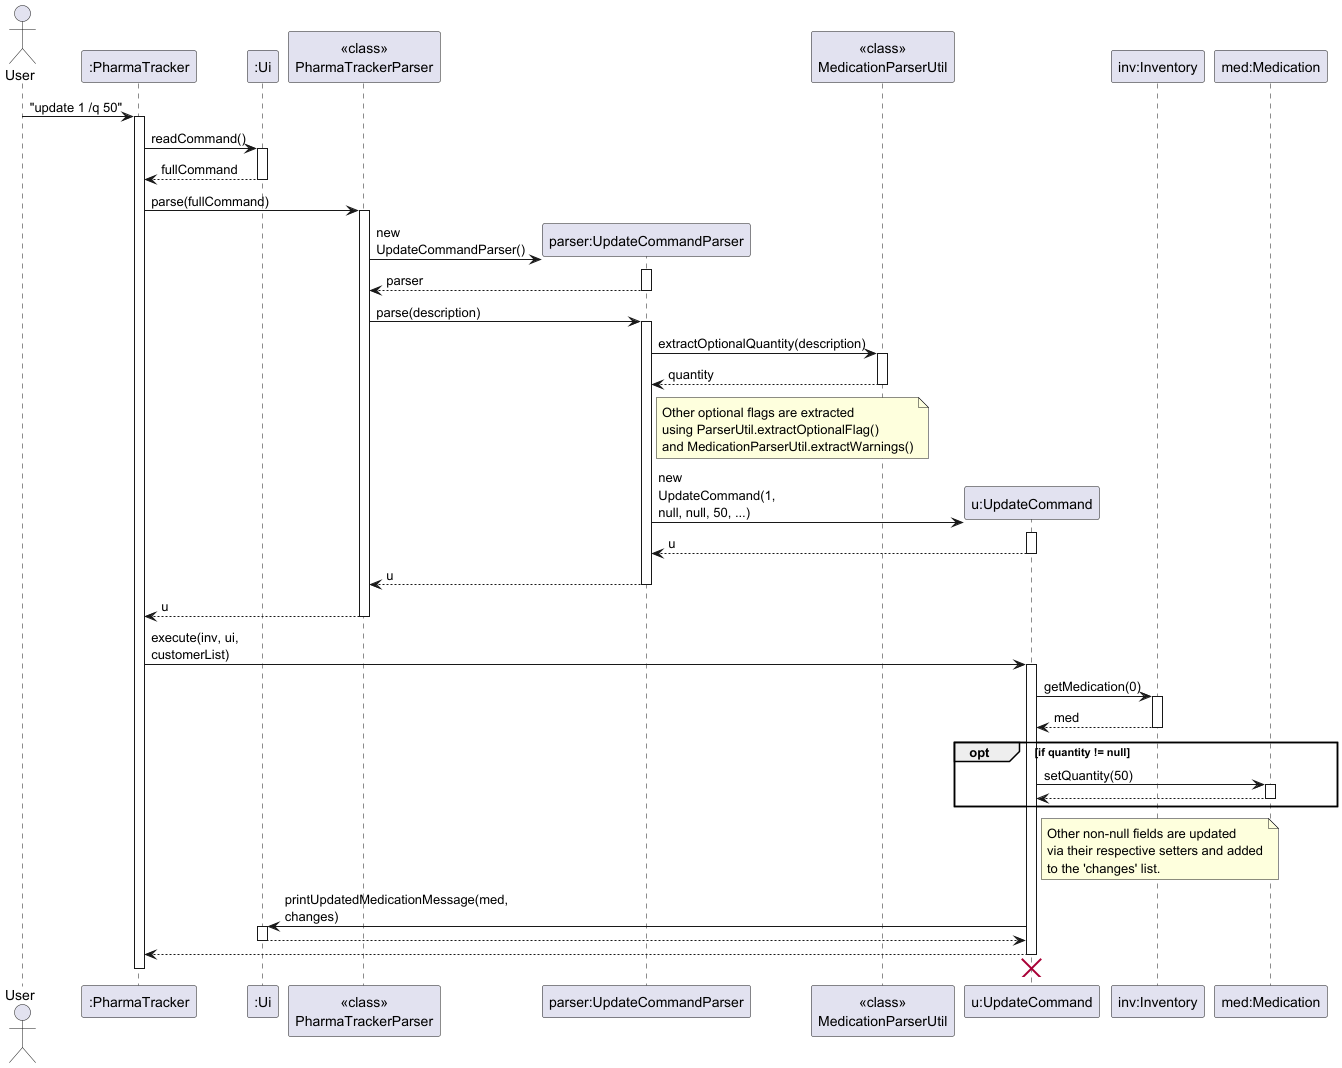
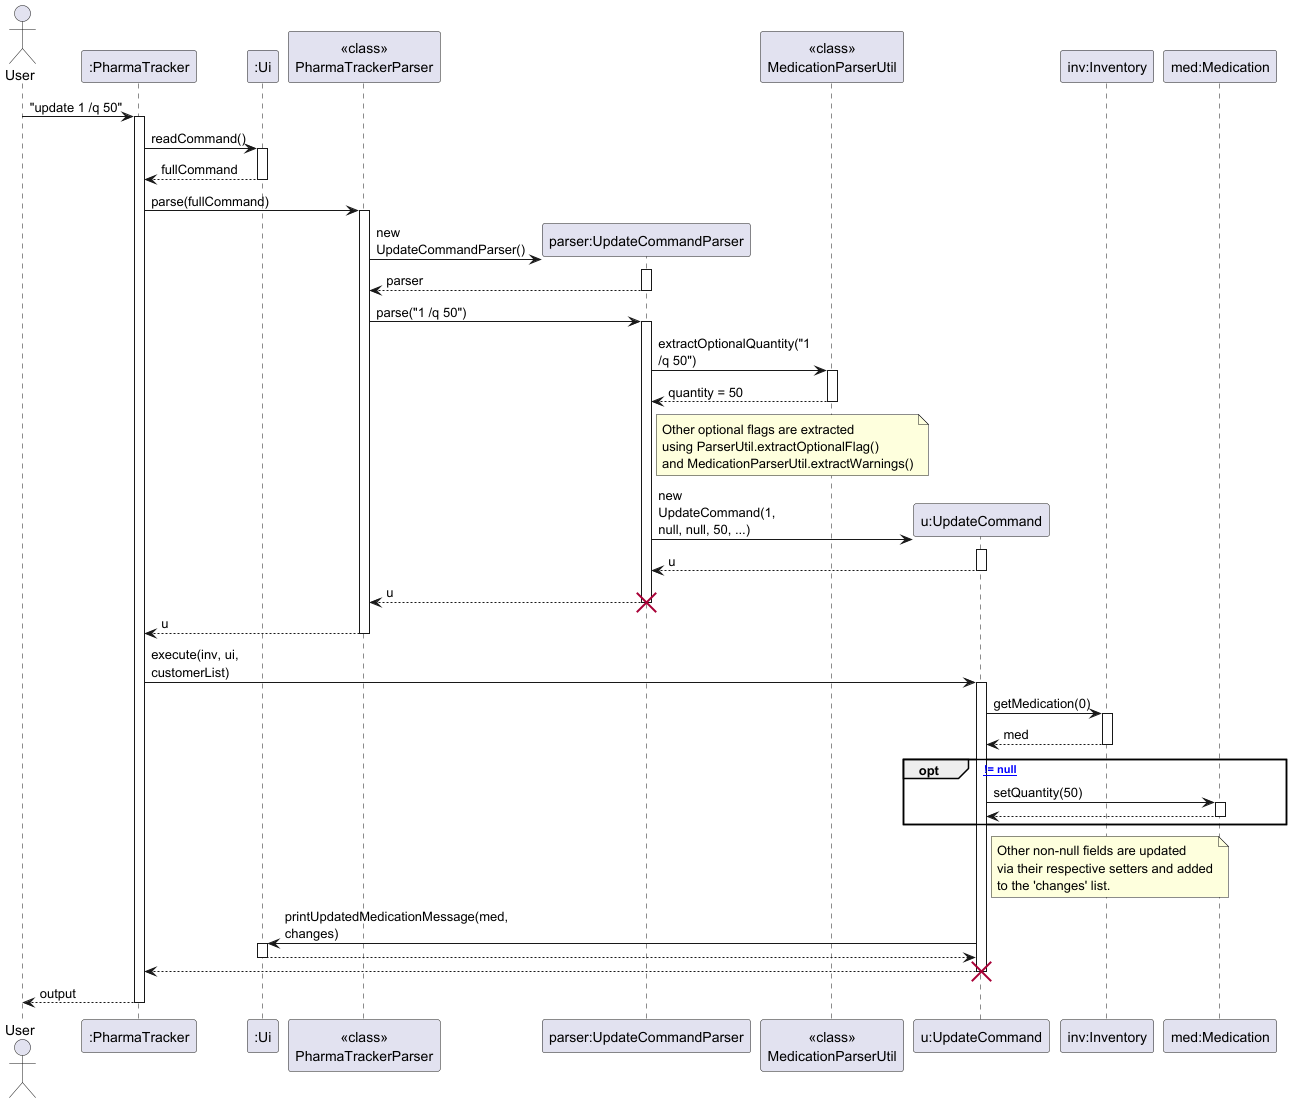
Update DG with DeleteCommand and UpdateCommand sequence diagrams

diff --git a/docs/DeveloperGuide.md b/docs/DeveloperGuide.md
@@ -299,6 +299,8 @@ update INDEX [/n NAME] [/d DOSAGE] [/q QUANTITY] [/e EXPIRY] [/t TAG] [/df DOSAG
 10. Finally, `Ui.printUpdatedMedicationMessage()` is called with the updated `Medication` and the `changes` list to generate a dynamic success message showing exactly what was modified.
 
 
+![Sequence diagram showing the execution flow of the Update Command](images/UpdateCommandSequence.png)
+
 ---
 ### List Medication Feature
 
